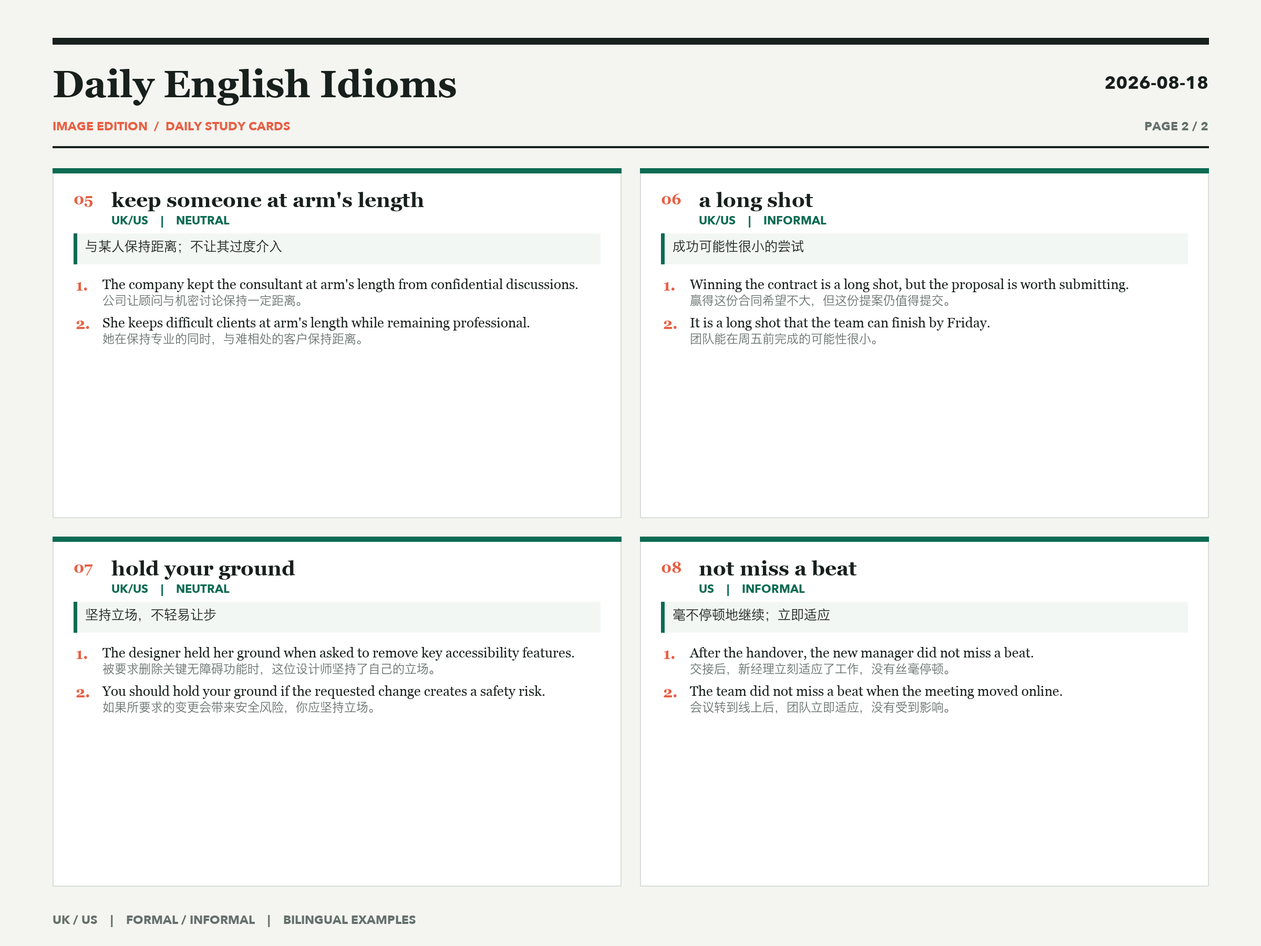
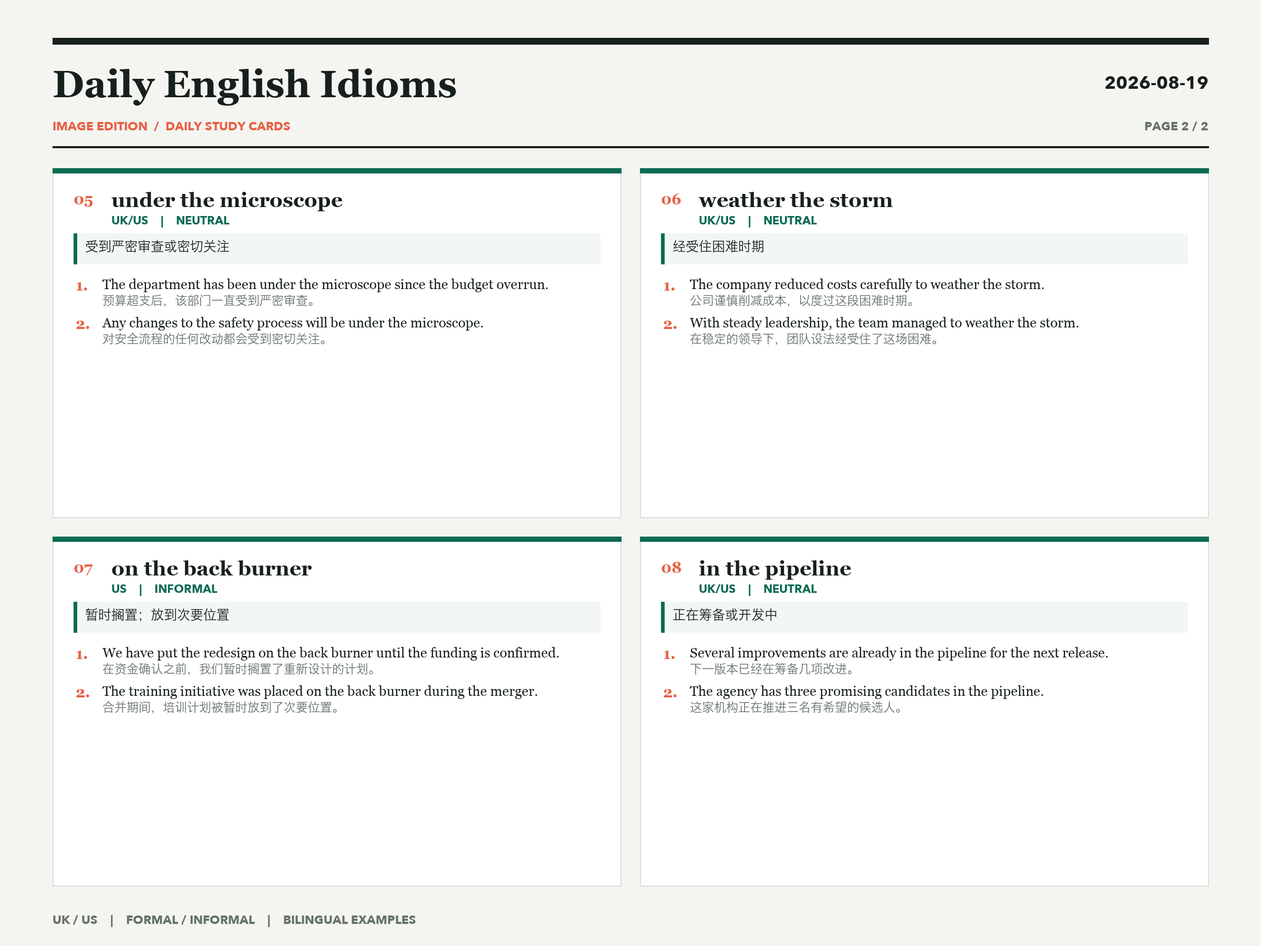
Update daily idioms 2026-08-19

diff --git a/index.html b/index.html
@@ -1,3 +1,3 @@
 <!doctype html><html lang="zh-CN"><head><meta charset="utf-8"><meta name="viewport" content="width=device-width,initial-scale=1"><title>Daily English Idioms</title><style>
 :root{--ink:#18201e;--muted:#65706c;--paper:#f4f5f0;--card:#fff;--line:#d9ded9;--green:#0b6b52;--coral:#e76045}*{box-sizing:border-box}body{margin:0;background:var(--paper);color:var(--ink);font-family:"Avenir Next","PingFang SC","Hiragino Sans GB",sans-serif;letter-spacing:0}.shell{max-width:1180px;margin:auto;padding:44px 28px 72px}.masthead{display:flex;align-items:flex-end;justify-content:space-between;border-top:6px solid var(--ink);border-bottom:1px solid var(--ink);padding:18px 0 16px;margin-bottom:18px}.masthead h1{font-family:Georgia,"Songti SC",serif;font-size:clamp(30px,5vw,58px);font-weight:500;line-height:1;margin:0}.masthead p{max-width:290px;margin:0;color:var(--muted);font-size:14px;line-height:1.6;text-align:right}.resources{display:flex;gap:8px;flex-wrap:wrap;margin-bottom:42px}.resources a{display:inline-block;border:1px solid var(--ink);color:var(--ink);padding:9px 12px;text-decoration:none;font-size:11px;font-weight:700}.resources a:first-child{background:var(--ink);color:#fff}.resources a:hover{border-color:var(--coral);color:var(--coral)}.resources a:first-child:hover{background:var(--coral);color:#fff}.image-edition{margin:0 0 54px}.image-edition header{display:flex;justify-content:space-between;align-items:end;margin-bottom:14px}.image-edition h2{font-family:Georgia,"Songti SC",serif;font-size:24px;margin:0}.image-edition p{margin:0;color:var(--muted);font-size:11px;font-weight:700}.image-grid{display:grid;grid-template-columns:repeat(2,minmax(0,1fr));gap:14px}.image-grid a{display:block;background:#fff;border:1px solid var(--line);padding:8px}.image-grid img{display:block;width:100%;height:auto}.day+.day{margin-top:58px}.day-header{display:flex;align-items:end;justify-content:space-between;margin-bottom:18px}.day-header p{margin:0 0 5px;color:var(--coral);font-size:11px;font-weight:700}.day-header h2{margin:0;font-size:25px}.day-header>span{color:var(--muted);font-size:11px;font-weight:700}.grid{display:grid;grid-template-columns:repeat(2,minmax(0,1fr));gap:14px}.idiom-card{background:var(--card);border:1px solid var(--line);border-top:3px solid var(--green);padding:20px;min-width:0}.card-top{display:grid;grid-template-columns:40px minmax(0,1fr);gap:12px;align-items:start}.number{color:var(--coral);font:700 13px/1.8 Georgia,serif}.idiom-card h3{margin:0;font-family:Georgia,"Songti SC",serif;font-size:21px;font-weight:600;line-height:1.25;overflow-wrap:anywhere}.tags{display:flex;gap:6px;flex-wrap:wrap;margin-top:9px}.tags span{border:1px solid var(--line);padding:3px 7px;color:var(--green);font-size:9px;font-weight:700}.meaning{margin:18px 0 14px;padding:10px 12px;background:#f3f7f3;border-left:3px solid var(--green);font-size:14px;font-weight:600}.examples{margin:0;padding-left:20px}.examples li{padding-left:4px}.examples li+li{margin-top:12px}.examples p{margin:0}.en{font-family:Georgia,"Songti SC",serif;font-size:15px;line-height:1.45}.zh{color:var(--muted);font-size:13px;line-height:1.55;margin-top:3px!important}.footer{margin-top:52px;border-top:1px solid var(--ink);padding-top:14px;color:var(--muted);font-size:11px;display:flex;justify-content:space-between}@media(max-width:700px){.shell{padding:24px 16px 48px}.masthead{display:block}.masthead h1{font-size:38px}.masthead p{text-align:left;margin-top:14px}.resources{margin-bottom:34px}.image-grid,.grid{grid-template-columns:1fr}.idiom-card{padding:17px}.day+.day{margin-top:44px}.image-edition header{display:block}.image-edition p{margin-top:6px}.footer{display:block}.footer span{display:block;margin-top:5px}}
-</style></head><body><main class="shell"><header class="masthead"><h1>Daily English<br>Idioms</h1><p>每日 8 个实用英文习语<br>地域倾向 · 语体 · 双语例句</p></header><nav class="resources" aria-label="Downloads"><a href="english-idioms-archive.docx" download>WORD 总档案</a><a href="latest-1.png" target="_blank" rel="noopener noreferrer">高清图片 1</a><a href="latest-2.png" target="_blank" rel="noopener noreferrer">高清图片 2</a></nav><section class="image-edition"><header><h2>今日图片版</h2><p>2400 × 1800 PNG · 点击查看原图</p></header><div class="image-grid"><a href="latest-1.png" target="_blank" rel="noopener noreferrer"><img src="latest-1.png" alt="2026-08-18 习语图片第 1 页"></a><a href="latest-2.png" target="_blank" rel="noopener noreferrer"><img src="latest-2.png" alt="2026-08-18 习语图片第 2 页"></a></div></section><section class="day"><header class="day-header"><div><p>TODAY / 今天</p><h2>2026-08-18</h2></div><span>8 IDIOMS</span></header><div class="grid"><article class="idiom-card"><div class="card-top"><span class="number">01</span><div><h3>make a clean breast of something</h3><div class="tags"><span>UK</span><span>INFORMAL</span></div></div></div><p class="meaning">坦白承认错误或秘密</p><ol class="examples"><li><p class="en">He decided to make a clean breast of the mistake before the audit began.</p><p class="zh">审计开始前，他决定坦白承认这个错误。</p></li><li><p class="en">Making a clean breast of the problem early saved the team more trouble later.</p><p class="zh">及早坦白问题让团队避免了日后更多麻烦。</p></li></ol></article><article class="idiom-card"><div class="card-top"><span class="number">02</span><div><h3>be dead in the water</h3><div class="tags"><span>US</span><span>INFORMAL</span></div></div></div><p class="meaning">陷入停滞，无法推进</p><ol class="examples"><li><p class="en">Without legal approval, the expansion plan is dead in the water.</p><p class="zh">没有法务批准，扩张计划将完全无法推进。</p></li><li><p class="en">The proposal was dead in the water once the funding was withdrawn.</p><p class="zh">资金被撤回后，这项提案就陷入了停滞。</p></li></ol></article><article class="idiom-card"><div class="card-top"><span class="number">03</span><div><h3>put a damper on something</h3><div class="tags"><span>UK / US</span><span>INFORMAL</span></div></div></div><p class="meaning">扫兴；削弱热情或进展</p><ol class="examples"><li><p class="en">The delay put a damper on the team&#x27;s excitement about the launch.</p><p class="zh">延期削弱了团队对发布的兴奋感。</p></li><li><p class="en">Rising costs have put a damper on plans to expand the office.</p><p class="zh">成本上升给扩建办公室的计划泼了冷水。</p></li></ol></article><article class="idiom-card"><div class="card-top"><span class="number">04</span><div><h3>go out of your way</h3><div class="tags"><span>UK / US</span><span>NEUTRAL</span></div></div></div><p class="meaning">特地付出额外努力帮助某人或完成某事</p><ol class="examples"><li><p class="en">She went out of her way to make the new colleagues feel welcome.</p><p class="zh">她特地付出额外努力，让新同事感到受欢迎。</p></li><li><p class="en">The supplier went out of its way to resolve the delivery issue quickly.</p><p class="zh">供应商特地加快处理，以解决交付问题。</p></li></ol></article><article class="idiom-card"><div class="card-top"><span class="number">05</span><div><h3>keep someone at arm&#x27;s length</h3><div class="tags"><span>UK / US</span><span>NEUTRAL</span></div></div></div><p class="meaning">与某人保持距离；不让其过度介入</p><ol class="examples"><li><p class="en">The company kept the consultant at arm&#x27;s length from confidential discussions.</p><p class="zh">公司让顾问与机密讨论保持一定距离。</p></li><li><p class="en">She keeps difficult clients at arm&#x27;s length while remaining professional.</p><p class="zh">她在保持专业的同时，与难相处的客户保持距离。</p></li></ol></article><article class="idiom-card"><div class="card-top"><span class="number">06</span><div><h3>a long shot</h3><div class="tags"><span>UK / US</span><span>INFORMAL</span></div></div></div><p class="meaning">成功可能性很小的尝试</p><ol class="examples"><li><p class="en">Winning the contract is a long shot, but the proposal is worth submitting.</p><p class="zh">赢得这份合同希望不大，但这份提案仍值得提交。</p></li><li><p class="en">It is a long shot that the team can finish by Friday.</p><p class="zh">团队能在周五前完成的可能性很小。</p></li></ol></article><article class="idiom-card"><div class="card-top"><span class="number">07</span><div><h3>hold your ground</h3><div class="tags"><span>UK / US</span><span>NEUTRAL</span></div></div></div><p class="meaning">坚持立场，不轻易让步</p><ol class="examples"><li><p class="en">The designer held her ground when asked to remove key accessibility features.</p><p class="zh">被要求删除关键无障碍功能时，这位设计师坚持了自己的立场。</p></li><li><p class="en">You should hold your ground if the requested change creates a safety risk.</p><p class="zh">如果所要求的变更会带来安全风险，你应坚持立场。</p></li></ol></article><article class="idiom-card"><div class="card-top"><span class="number">08</span><div><h3>not miss a beat</h3><div class="tags"><span>US</span><span>INFORMAL</span></div></div></div><p class="meaning">毫不停顿地继续；立即适应</p><ol class="examples"><li><p class="en">After the handover, the new manager did not miss a beat.</p><p class="zh">交接后，新经理立刻适应了工作，没有丝毫停顿。</p></li><li><p class="en">The team did not miss a beat when the meeting moved online.</p><p class="zh">会议转到线上后，团队立即适应，没有受到影响。</p></li></ol></article></div></section><section class="day"><header class="day-header"><div><p>PREVIOUS / 上一期</p><h2>2026-08-17</h2></div><span>8 IDIOMS</span></header><div class="grid"><article class="idiom-card"><div class="card-top"><span class="number">01</span><div><h3>have your hands full</h3><div class="tags"><span>UK / US</span><span>INFORMAL</span></div></div></div><p class="meaning">忙得不可开交；无暇兼顾更多事情</p><ol class="examples"><li><p class="en">I have my hands full with the product launch this week.</p><p class="zh">这周我忙于产品发布，已经无暇兼顾其他事情。</p></li><li><p class="en">The support team has its hands full after the system update.</p><p class="zh">系统更新后，支持团队忙得不可开交。</p></li></ol></article><article class="idiom-card"><div class="card-top"><span class="number">02</span><div><h3>take the rough with the smooth</h3><div class="tags"><span>UK</span><span>NEUTRAL</span></div></div></div><p class="meaning">既接受顺境，也承受逆境</p><ol class="examples"><li><p class="en">Running a business means taking the rough with the smooth.</p><p class="zh">经营企业意味着既要享受顺境，也要承受逆境。</p></li><li><p class="en">She takes the rough with the smooth and rarely complains about setbacks.</p><p class="zh">她坦然面对顺境与逆境，很少抱怨挫折。</p></li></ol></article><article class="idiom-card"><div class="card-top"><span class="number">03</span><div><h3>make waves</h3><div class="tags"><span>UK / US</span><span>INFORMAL</span></div></div></div><p class="meaning">引起重大反响；打破现状</p><ol class="examples"><li><p class="en">The new pricing model is already making waves in the industry.</p><p class="zh">新的定价模式已经在行业内引起了强烈反响。</p></li><li><p class="en">He avoided making waves during his first month in the role.</p><p class="zh">任职第一个月，他避免做出打破现状的举动。</p></li></ol></article><article class="idiom-card"><div class="card-top"><span class="number">04</span><div><h3>come out on top</h3><div class="tags"><span>UK / US</span><span>INFORMAL</span></div></div></div><p class="meaning">最终获胜或取得优势</p><ol class="examples"><li><p class="en">Despite a difficult start, the smaller team came out on top.</p><p class="zh">尽管开局艰难，规模较小的团队最终取得了胜利。</p></li><li><p class="en">Companies that adapt quickly are likely to come out on top.</p><p class="zh">适应迅速的公司更有可能最终占据优势。</p></li></ol></article><article class="idiom-card"><div class="card-top"><span class="number">05</span><div><h3>keep the lid on something</h3><div class="tags"><span>UK / US</span><span>INFORMAL</span></div></div></div><p class="meaning">控制局势；防止消息或问题扩散</p><ol class="examples"><li><p class="en">Management tried to keep the lid on the dispute until the investigation ended.</p><p class="zh">管理层试图在调查结束前控制争议，不让其扩散。</p></li><li><p class="en">Clear communication helped keep the lid on customer anxiety.</p><p class="zh">清晰的沟通有助于控制客户的焦虑情绪。</p></li></ol></article><article class="idiom-card"><div class="card-top"><span class="number">06</span><div><h3>run its course</h3><div class="tags"><span>UK / US</span><span>NEUTRAL</span></div></div></div><p class="meaning">自然发展直至结束</p><ol class="examples"><li><p class="en">The current contract will run its course before the new terms take effect.</p><p class="zh">现有合同将自然履行至结束，之后新条款才会生效。</p></li><li><p class="en">We decided to let the discussion run its course before making a decision.</p><p class="zh">我们决定让讨论自然进行完毕后再作决定。</p></li></ol></article><article class="idiom-card"><div class="card-top"><span class="number">07</span><div><h3>not hold a candle to</h3><div class="tags"><span>US</span><span>INFORMAL</span></div></div></div><p class="meaning">远远比不上某人或某事</p><ol class="examples"><li><p class="en">The old dashboard does not hold a candle to the new one.</p><p class="zh">旧仪表盘远远比不上新的。</p></li><li><p class="en">No online tutorial can hold a candle to learning from an experienced mentor.</p><p class="zh">任何在线教程都远不及向经验丰富的导师学习。</p></li></ol></article><article class="idiom-card"><div class="card-top"><span class="number">08</span><div><h3>pull the plug</h3><div class="tags"><span>UK / US</span><span>INFORMAL</span></div></div></div><p class="meaning">终止项目、计划或支持</p><ol class="examples"><li><p class="en">The board pulled the plug on the project after costs doubled.</p><p class="zh">成本翻倍后，董事会终止了该项目。</p></li><li><p class="en">We should fix the main issue before deciding to pull the plug.</p><p class="zh">在决定终止计划之前，我们应该先解决主要问题。</p></li></ol></article></div></section><footer class="footer"><span>PUBLISHED READING EDITION</span><span>Updated through 2026-08-18</span></footer></main></body></html>
+</style></head><body><main class="shell"><header class="masthead"><h1>Daily English<br>Idioms</h1><p>每日 8 个实用英文习语<br>地域倾向 · 语体 · 双语例句</p></header><nav class="resources" aria-label="Downloads"><a href="english-idioms-archive.docx" download>WORD 总档案</a><a href="latest-1.png" target="_blank" rel="noopener noreferrer">高清图片 1</a><a href="latest-2.png" target="_blank" rel="noopener noreferrer">高清图片 2</a></nav><section class="image-edition"><header><h2>今日图片版</h2><p>2400 × 1800 PNG · 点击查看原图</p></header><div class="image-grid"><a href="latest-1.png" target="_blank" rel="noopener noreferrer"><img src="latest-1.png" alt="2026-08-19 习语图片第 1 页"></a><a href="latest-2.png" target="_blank" rel="noopener noreferrer"><img src="latest-2.png" alt="2026-08-19 习语图片第 2 页"></a></div></section><section class="day"><header class="day-header"><div><p>TODAY / 今天</p><h2>2026-08-19</h2></div><span>8 IDIOMS</span></header><div class="grid"><article class="idiom-card"><div class="card-top"><span class="number">01</span><div><h3>go pear-shaped</h3><div class="tags"><span>UK</span><span>INFORMAL</span></div></div></div><p class="meaning">出岔子；变得一团糟</p><ol class="examples"><li><p class="en">The launch went pear-shaped when the payment system stopped working.</p><p class="zh">支付系统停止工作后，发布活动出了岔子。</p></li><li><p class="en">Our travel plans went pear-shaped after the last train was cancelled.</p><p class="zh">末班火车取消后，我们的旅行计划变得一团糟。</p></li></ol></article><article class="idiom-card"><div class="card-top"><span class="number">02</span><div><h3>throw a spanner in the works</h3><div class="tags"><span>UK</span><span>INFORMAL</span></div></div></div><p class="meaning">给计划制造麻烦；横生枝节</p><ol class="examples"><li><p class="en">The unexpected audit threw a spanner in the works for the expansion schedule.</p><p class="zh">突如其来的审计给扩张计划的时间表制造了麻烦。</p></li><li><p class="en">A supplier&#x27;s delay threw a spanner in the works, but we found a workaround.</p><p class="zh">供应商的延误打乱了计划，但我们找到了替代办法。</p></li></ol></article><article class="idiom-card"><div class="card-top"><span class="number">03</span><div><h3>raise the bar</h3><div class="tags"><span>UK / US</span><span>NEUTRAL</span></div></div></div><p class="meaning">提高标准或要求</p><ol class="examples"><li><p class="en">The new accessibility guidelines have raised the bar for every product team.</p><p class="zh">新的无障碍指南提高了所有产品团队的标准。</p></li><li><p class="en">Her presentation raised the bar for the rest of the conference.</p><p class="zh">她的演讲提高了本次会议后续内容的标准。</p></li></ol></article><article class="idiom-card"><div class="card-top"><span class="number">04</span><div><h3>the ball is in your court</h3><div class="tags"><span>UK / US</span><span>NEUTRAL</span></div></div></div><p class="meaning">轮到你采取行动或作决定了</p><ol class="examples"><li><p class="en">We have sent the revised contract, so the ball is in your court now.</p><p class="zh">我们已经发出了修订后的合同，现在轮到你采取行动了。</p></li><li><p class="en">I have explained the risks; the ball is in the board&#x27;s court.</p><p class="zh">我已经解释了风险，现在轮到董事会作决定了。</p></li></ol></article><article class="idiom-card"><div class="card-top"><span class="number">05</span><div><h3>under the microscope</h3><div class="tags"><span>UK / US</span><span>NEUTRAL</span></div></div></div><p class="meaning">受到严密审查或密切关注</p><ol class="examples"><li><p class="en">The department has been under the microscope since the budget overrun.</p><p class="zh">预算超支后，该部门一直受到严密审查。</p></li><li><p class="en">Any changes to the safety process will be under the microscope.</p><p class="zh">对安全流程的任何改动都会受到密切关注。</p></li></ol></article><article class="idiom-card"><div class="card-top"><span class="number">06</span><div><h3>weather the storm</h3><div class="tags"><span>UK / US</span><span>NEUTRAL</span></div></div></div><p class="meaning">经受住困难时期</p><ol class="examples"><li><p class="en">The company reduced costs carefully to weather the storm.</p><p class="zh">公司谨慎削减成本，以度过这段困难时期。</p></li><li><p class="en">With steady leadership, the team managed to weather the storm.</p><p class="zh">在稳定的领导下，团队设法经受住了这场困难。</p></li></ol></article><article class="idiom-card"><div class="card-top"><span class="number">07</span><div><h3>on the back burner</h3><div class="tags"><span>US</span><span>INFORMAL</span></div></div></div><p class="meaning">暂时搁置；放到次要位置</p><ol class="examples"><li><p class="en">We have put the redesign on the back burner until the funding is confirmed.</p><p class="zh">在资金确认之前，我们暂时搁置了重新设计的计划。</p></li><li><p class="en">The training initiative was placed on the back burner during the merger.</p><p class="zh">合并期间，培训计划被暂时放到了次要位置。</p></li></ol></article><article class="idiom-card"><div class="card-top"><span class="number">08</span><div><h3>in the pipeline</h3><div class="tags"><span>UK / US</span><span>NEUTRAL</span></div></div></div><p class="meaning">正在筹备或开发中</p><ol class="examples"><li><p class="en">Several improvements are already in the pipeline for the next release.</p><p class="zh">下一版本已经在筹备几项改进。</p></li><li><p class="en">The agency has three promising candidates in the pipeline.</p><p class="zh">这家机构正在推进三名有希望的候选人。</p></li></ol></article></div></section><section class="day"><header class="day-header"><div><p>PREVIOUS / 上一期</p><h2>2026-08-18</h2></div><span>8 IDIOMS</span></header><div class="grid"><article class="idiom-card"><div class="card-top"><span class="number">01</span><div><h3>make a clean breast of something</h3><div class="tags"><span>UK</span><span>INFORMAL</span></div></div></div><p class="meaning">坦白承认错误或秘密</p><ol class="examples"><li><p class="en">He decided to make a clean breast of the mistake before the audit began.</p><p class="zh">审计开始前，他决定坦白承认这个错误。</p></li><li><p class="en">Making a clean breast of the problem early saved the team more trouble later.</p><p class="zh">及早坦白问题让团队避免了日后更多麻烦。</p></li></ol></article><article class="idiom-card"><div class="card-top"><span class="number">02</span><div><h3>be dead in the water</h3><div class="tags"><span>US</span><span>INFORMAL</span></div></div></div><p class="meaning">陷入停滞，无法推进</p><ol class="examples"><li><p class="en">Without legal approval, the expansion plan is dead in the water.</p><p class="zh">没有法务批准，扩张计划将完全无法推进。</p></li><li><p class="en">The proposal was dead in the water once the funding was withdrawn.</p><p class="zh">资金被撤回后，这项提案就陷入了停滞。</p></li></ol></article><article class="idiom-card"><div class="card-top"><span class="number">03</span><div><h3>put a damper on something</h3><div class="tags"><span>UK / US</span><span>INFORMAL</span></div></div></div><p class="meaning">扫兴；削弱热情或进展</p><ol class="examples"><li><p class="en">The delay put a damper on the team&#x27;s excitement about the launch.</p><p class="zh">延期削弱了团队对发布的兴奋感。</p></li><li><p class="en">Rising costs have put a damper on plans to expand the office.</p><p class="zh">成本上升给扩建办公室的计划泼了冷水。</p></li></ol></article><article class="idiom-card"><div class="card-top"><span class="number">04</span><div><h3>go out of your way</h3><div class="tags"><span>UK / US</span><span>NEUTRAL</span></div></div></div><p class="meaning">特地付出额外努力帮助某人或完成某事</p><ol class="examples"><li><p class="en">She went out of her way to make the new colleagues feel welcome.</p><p class="zh">她特地付出额外努力，让新同事感到受欢迎。</p></li><li><p class="en">The supplier went out of its way to resolve the delivery issue quickly.</p><p class="zh">供应商特地加快处理，以解决交付问题。</p></li></ol></article><article class="idiom-card"><div class="card-top"><span class="number">05</span><div><h3>keep someone at arm&#x27;s length</h3><div class="tags"><span>UK / US</span><span>NEUTRAL</span></div></div></div><p class="meaning">与某人保持距离；不让其过度介入</p><ol class="examples"><li><p class="en">The company kept the consultant at arm&#x27;s length from confidential discussions.</p><p class="zh">公司让顾问与机密讨论保持一定距离。</p></li><li><p class="en">She keeps difficult clients at arm&#x27;s length while remaining professional.</p><p class="zh">她在保持专业的同时，与难相处的客户保持距离。</p></li></ol></article><article class="idiom-card"><div class="card-top"><span class="number">06</span><div><h3>a long shot</h3><div class="tags"><span>UK / US</span><span>INFORMAL</span></div></div></div><p class="meaning">成功可能性很小的尝试</p><ol class="examples"><li><p class="en">Winning the contract is a long shot, but the proposal is worth submitting.</p><p class="zh">赢得这份合同希望不大，但这份提案仍值得提交。</p></li><li><p class="en">It is a long shot that the team can finish by Friday.</p><p class="zh">团队能在周五前完成的可能性很小。</p></li></ol></article><article class="idiom-card"><div class="card-top"><span class="number">07</span><div><h3>hold your ground</h3><div class="tags"><span>UK / US</span><span>NEUTRAL</span></div></div></div><p class="meaning">坚持立场，不轻易让步</p><ol class="examples"><li><p class="en">The designer held her ground when asked to remove key accessibility features.</p><p class="zh">被要求删除关键无障碍功能时，这位设计师坚持了自己的立场。</p></li><li><p class="en">You should hold your ground if the requested change creates a safety risk.</p><p class="zh">如果所要求的变更会带来安全风险，你应坚持立场。</p></li></ol></article><article class="idiom-card"><div class="card-top"><span class="number">08</span><div><h3>not miss a beat</h3><div class="tags"><span>US</span><span>INFORMAL</span></div></div></div><p class="meaning">毫不停顿地继续；立即适应</p><ol class="examples"><li><p class="en">After the handover, the new manager did not miss a beat.</p><p class="zh">交接后，新经理立刻适应了工作，没有丝毫停顿。</p></li><li><p class="en">The team did not miss a beat when the meeting moved online.</p><p class="zh">会议转到线上后，团队立即适应，没有受到影响。</p></li></ol></article></div></section><footer class="footer"><span>PUBLISHED READING EDITION</span><span>Updated through 2026-08-19</span></footer></main></body></html>
